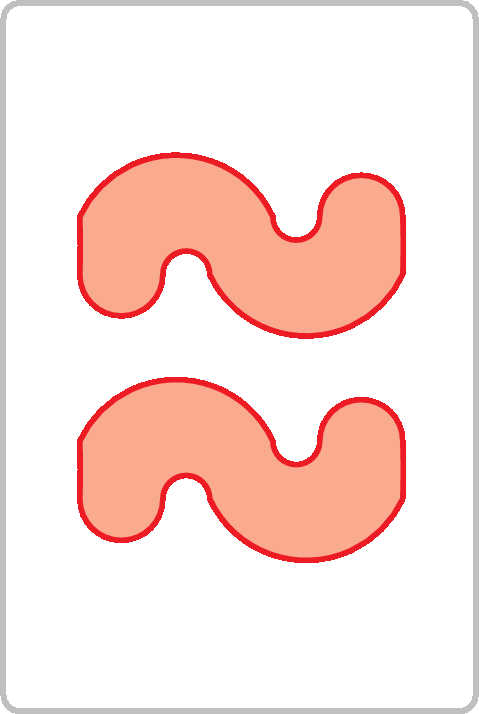
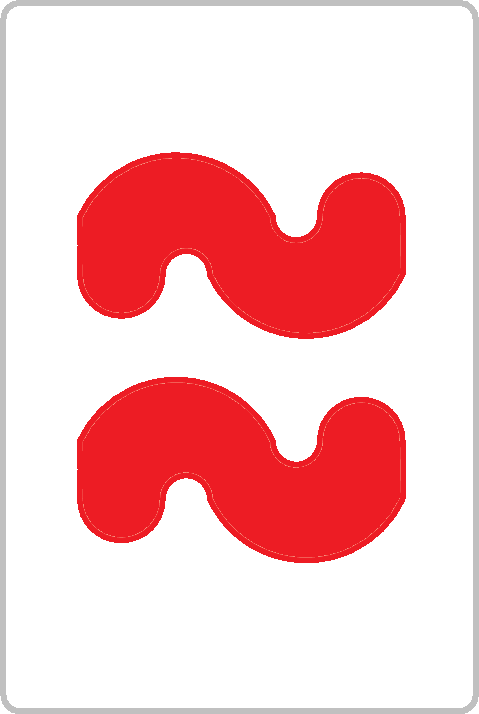
I changed the colors in some cards

Changed region(s): [[0.1754, 0.5238, 0.8476, 0.8011], [0.1754, 0.2157, 0.8476, 0.493]]

diff --git a/Readme.md b/Readme.md
@@ -17,12 +17,10 @@ screen.
 
 I think that is all.
 
-This is not in the code but I will also like to:
-* Change the card gifs so that the colors are more similar (I don't like the current ones)
-
 
 THINGS DONE
 
 * Change the type of Cards, to (Int,Int,Int,Int), or actually something more
 precise.
 * Put an easy version (with only one color for colorblinds and/or children)
+* Change the card gifs so that the colors are more similar (I don't like the current ones)
